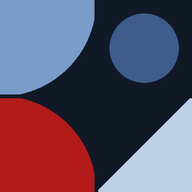
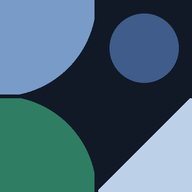
c

Changed region(s): [[0.0, 0.5, 0.5, 1.0]]

diff --git a/assets/css/custom.css b/assets/css/custom.css
@@ -132,11 +132,11 @@ svg[viewBox="0 0 17.732 24.269"] { width: auto !important; }
    5. 見出しフォントとアクセントカラー
 
    見出し: Zen Old Mincho（明朝体）。本文はゴシックのまま。
-   アクセント: 臙脂 (#b31b1b) — arXiv のロゴと同じ赤。
+   アクセント: ビリジアン (#2f7d63)。ダークモードではミルキーグリーン。
    ------------------------------------------------------------ */
 
-:root { --orita-accent: #b31b1b; }
-.dark  { --orita-accent: #e06060; }   /* ダークでは少し明るく */
+:root { --orita-accent: #2f7d63; }   /* ビリジアン */
+.dark  { --orita-accent: #a9d5bd; }   /* ダークではミルキーグリーン */
 
 /* --- 見出しを明朝体に --- */
 main h1, main h2, main h3,
